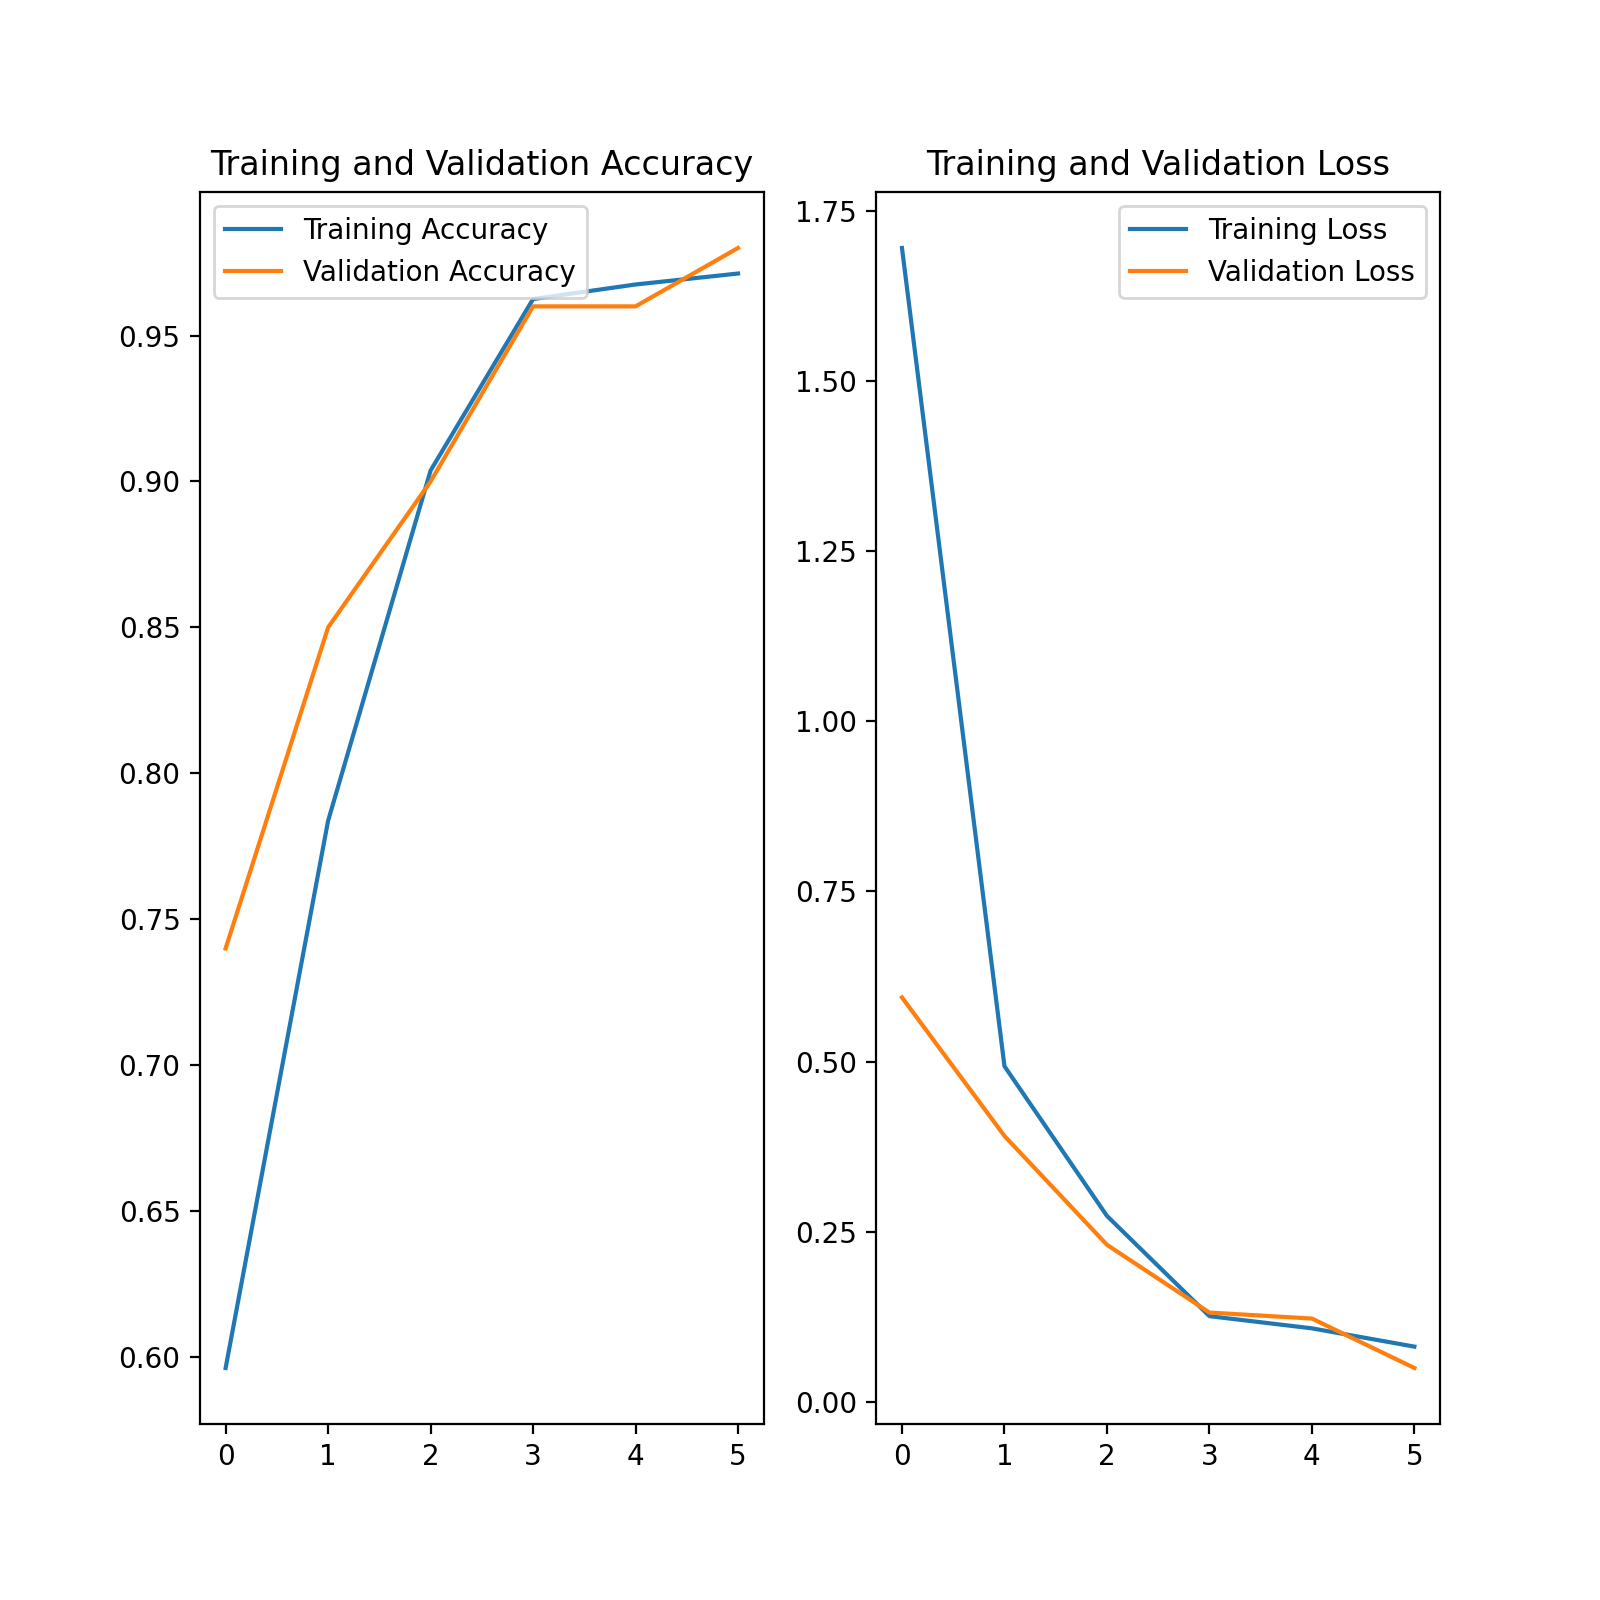
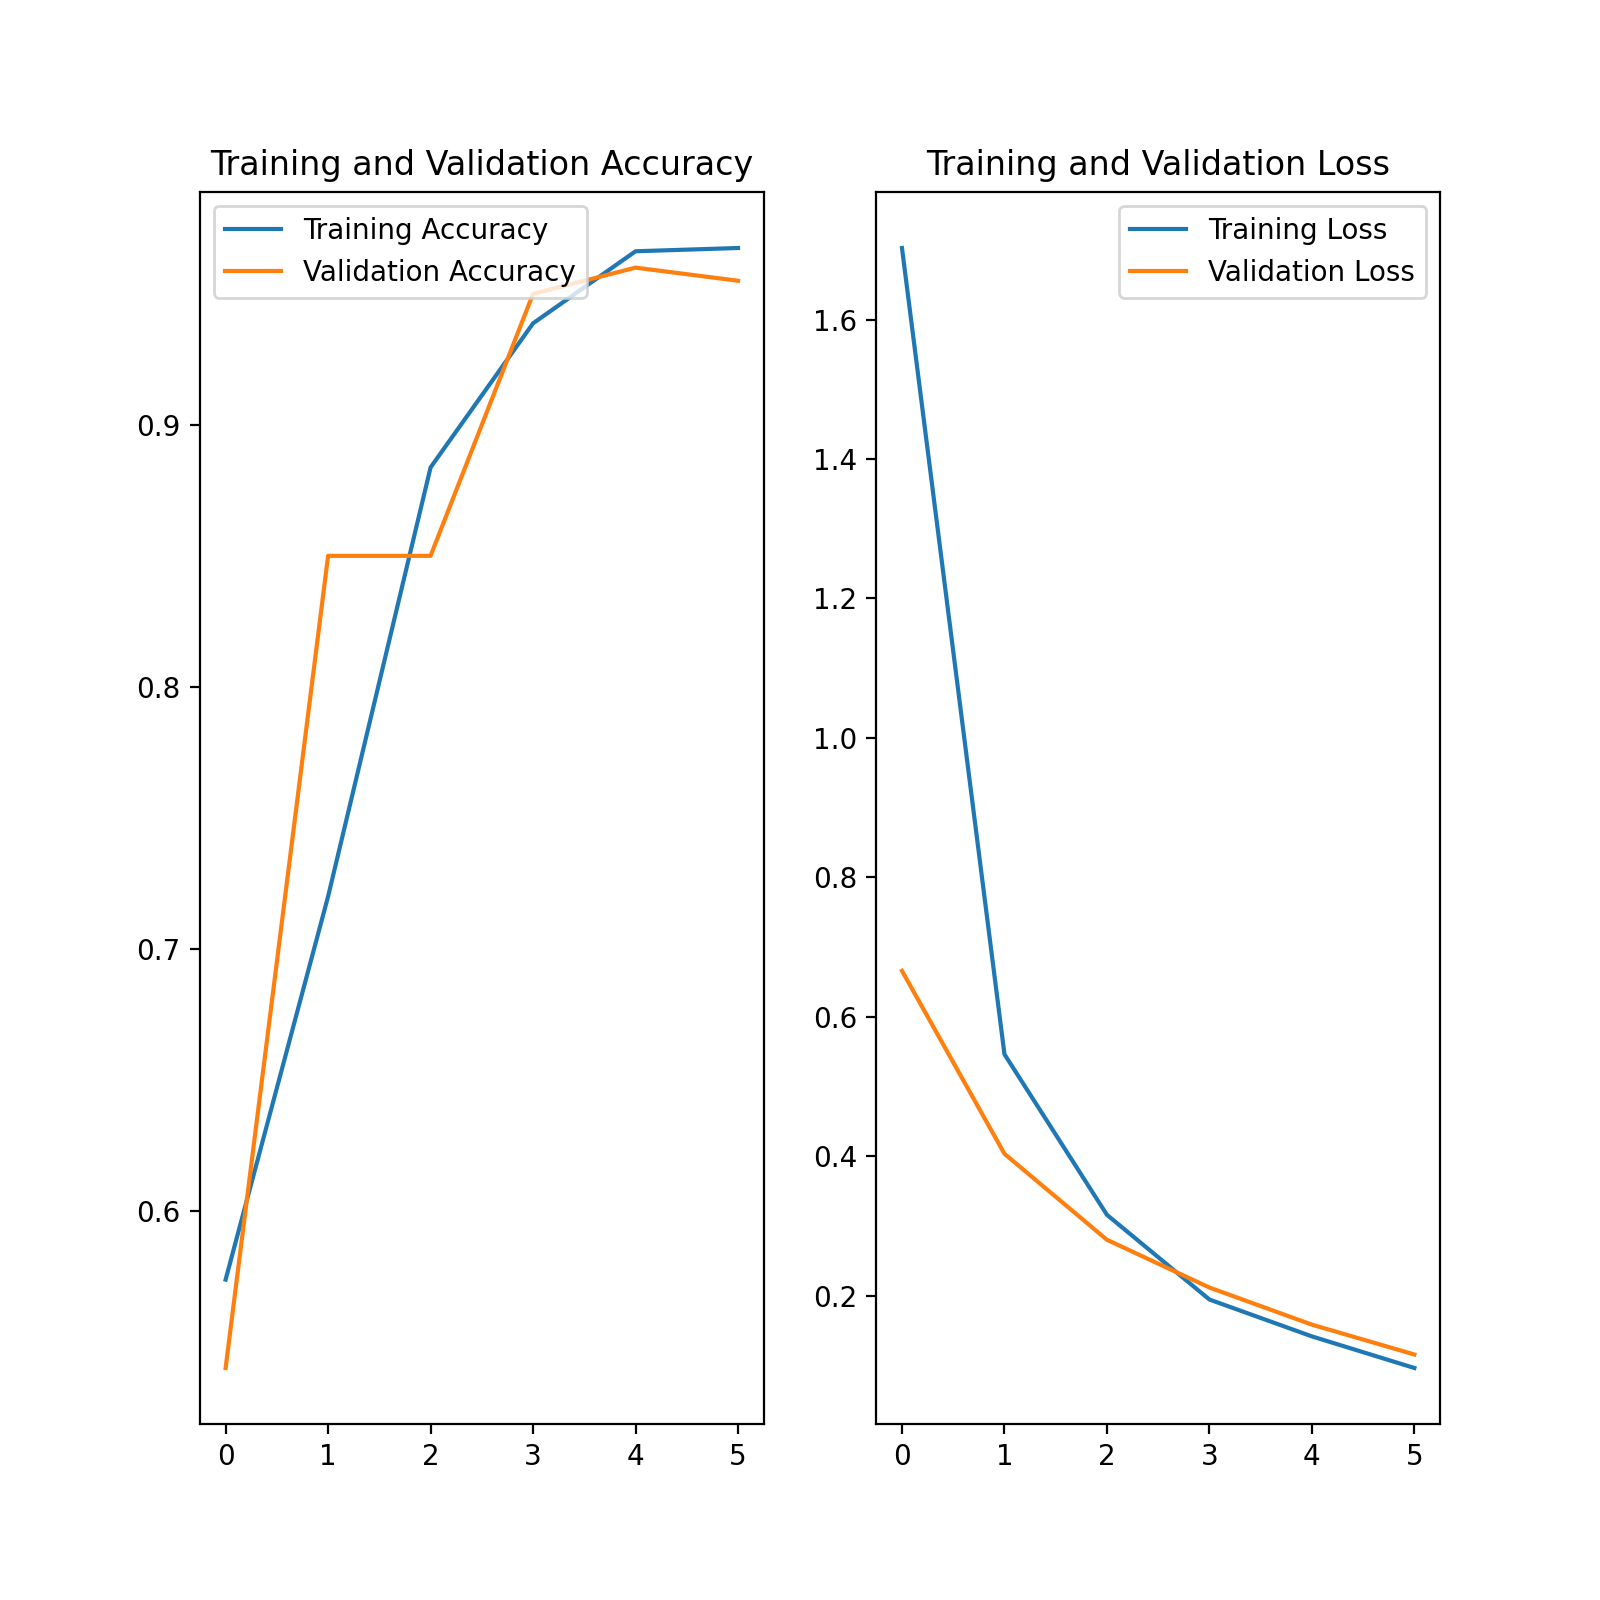
Contrast and brightness augmentation added

diff --git a/training/main.py b/training/main.py
@@ -37,6 +37,7 @@ training_ds = training_ds.cache().shuffle(1000).prefetch(buffer_size=tf.data.AUT
 val_ds = val_ds.cache().prefetch(buffer_size=tf.data.AUTOTUNE)
 model = tf.keras.models.Sequential([
     tf.keras.layers.RandomBrightness(0.3, input_shape=(IMAGE_SIZE[0], IMAGE_SIZE[1], 3)),
+    tf.keras.layers.RandomContrast(0.3),
     tf.keras.layers.Rescaling(1. / 255),
     tf.keras.layers.Conv2D(16, 3, padding='same', activation="relu"),
     tf.keras.layers.MaxPooling2D(),

diff --git a/camera/cameraProgram.py b/camera/cameraProgram.py
@@ -35,7 +35,7 @@ def piTest():
         print(output_data)
 
 def computerTest():
-    MODELPATH = "./model20230618.tflite"
+    MODELPATH = "../training/model3.tflite"
     interpreter = tf.lite.Interpreter(model_path=MODELPATH)
     interpreter.allocate_tensors()
 
